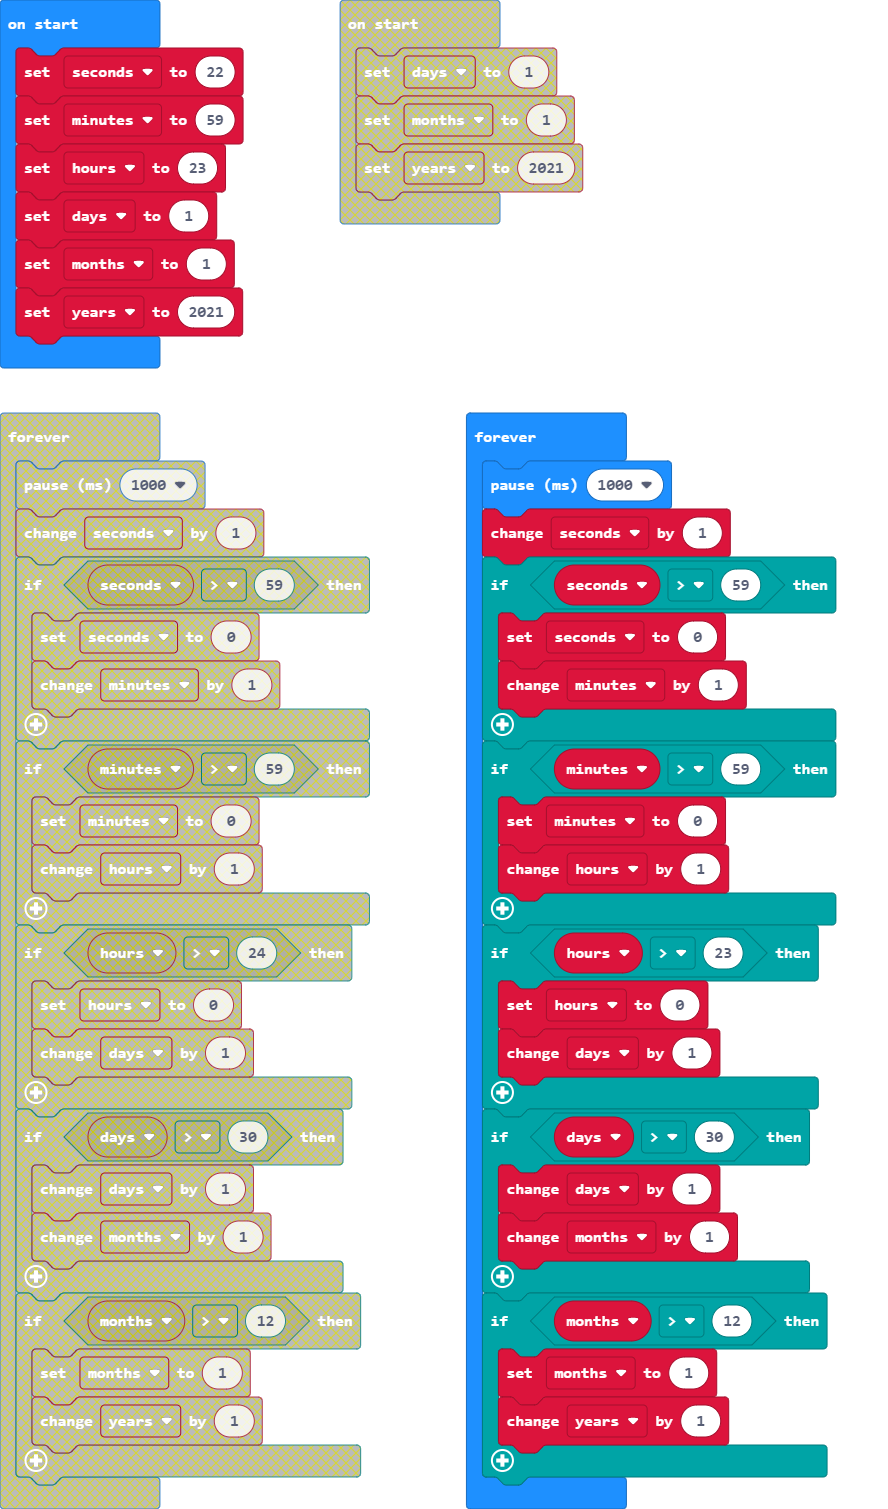
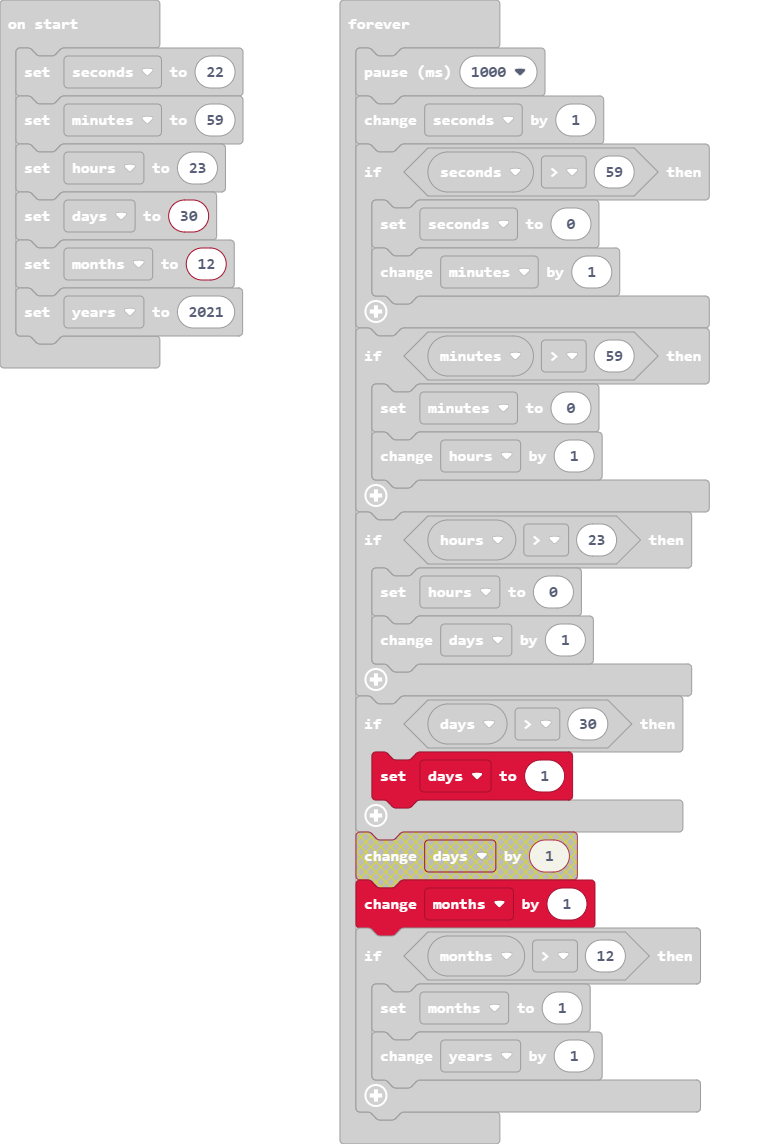
Update main.blocks, main.ts

diff --git a/main.ts b/main.ts
@@ -23,8 +23,8 @@ let seconds = 0
 seconds = 22
 minutes = 59
 hours = 23
-days = 1
-months = 1
+days = 30
+months = 12
 years = 2021
 basic.forever(function () {
     basic.pause(1000)
@@ -42,7 +42,7 @@ basic.forever(function () {
         days += 1
     }
     if (days > 30) {
-        days += 1
+        days = 1
         months += 1
     }
     if (months > 12) {
